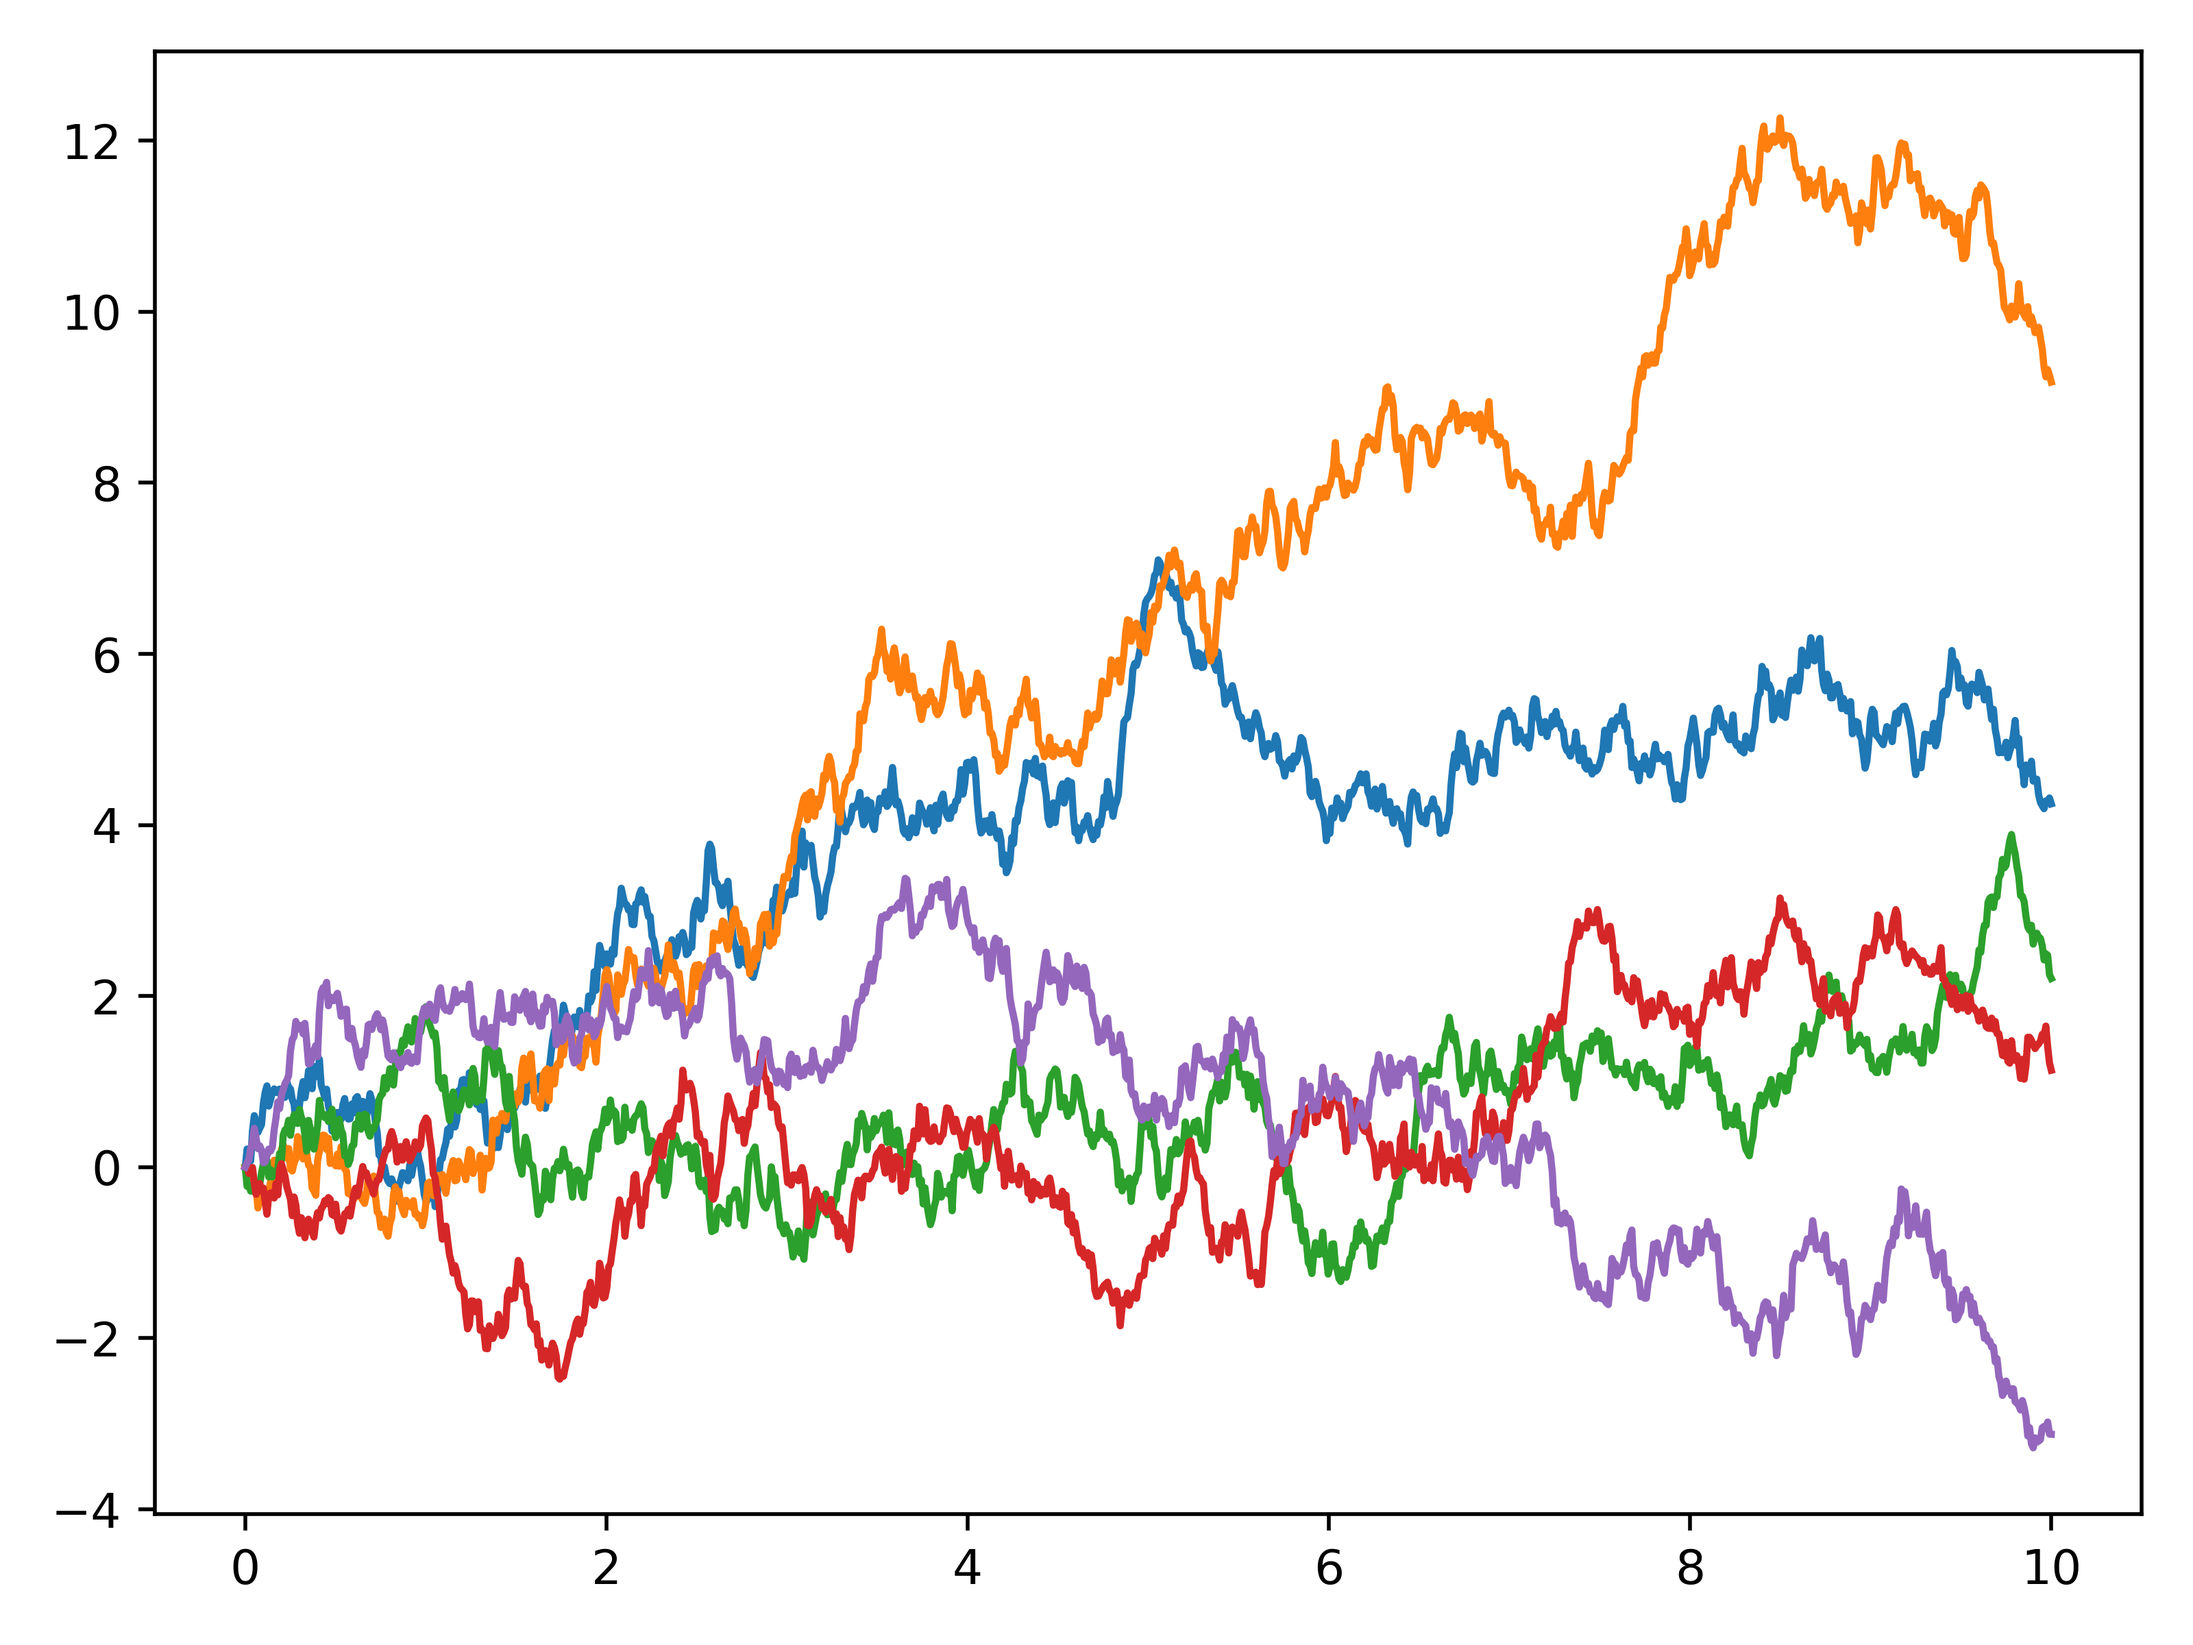
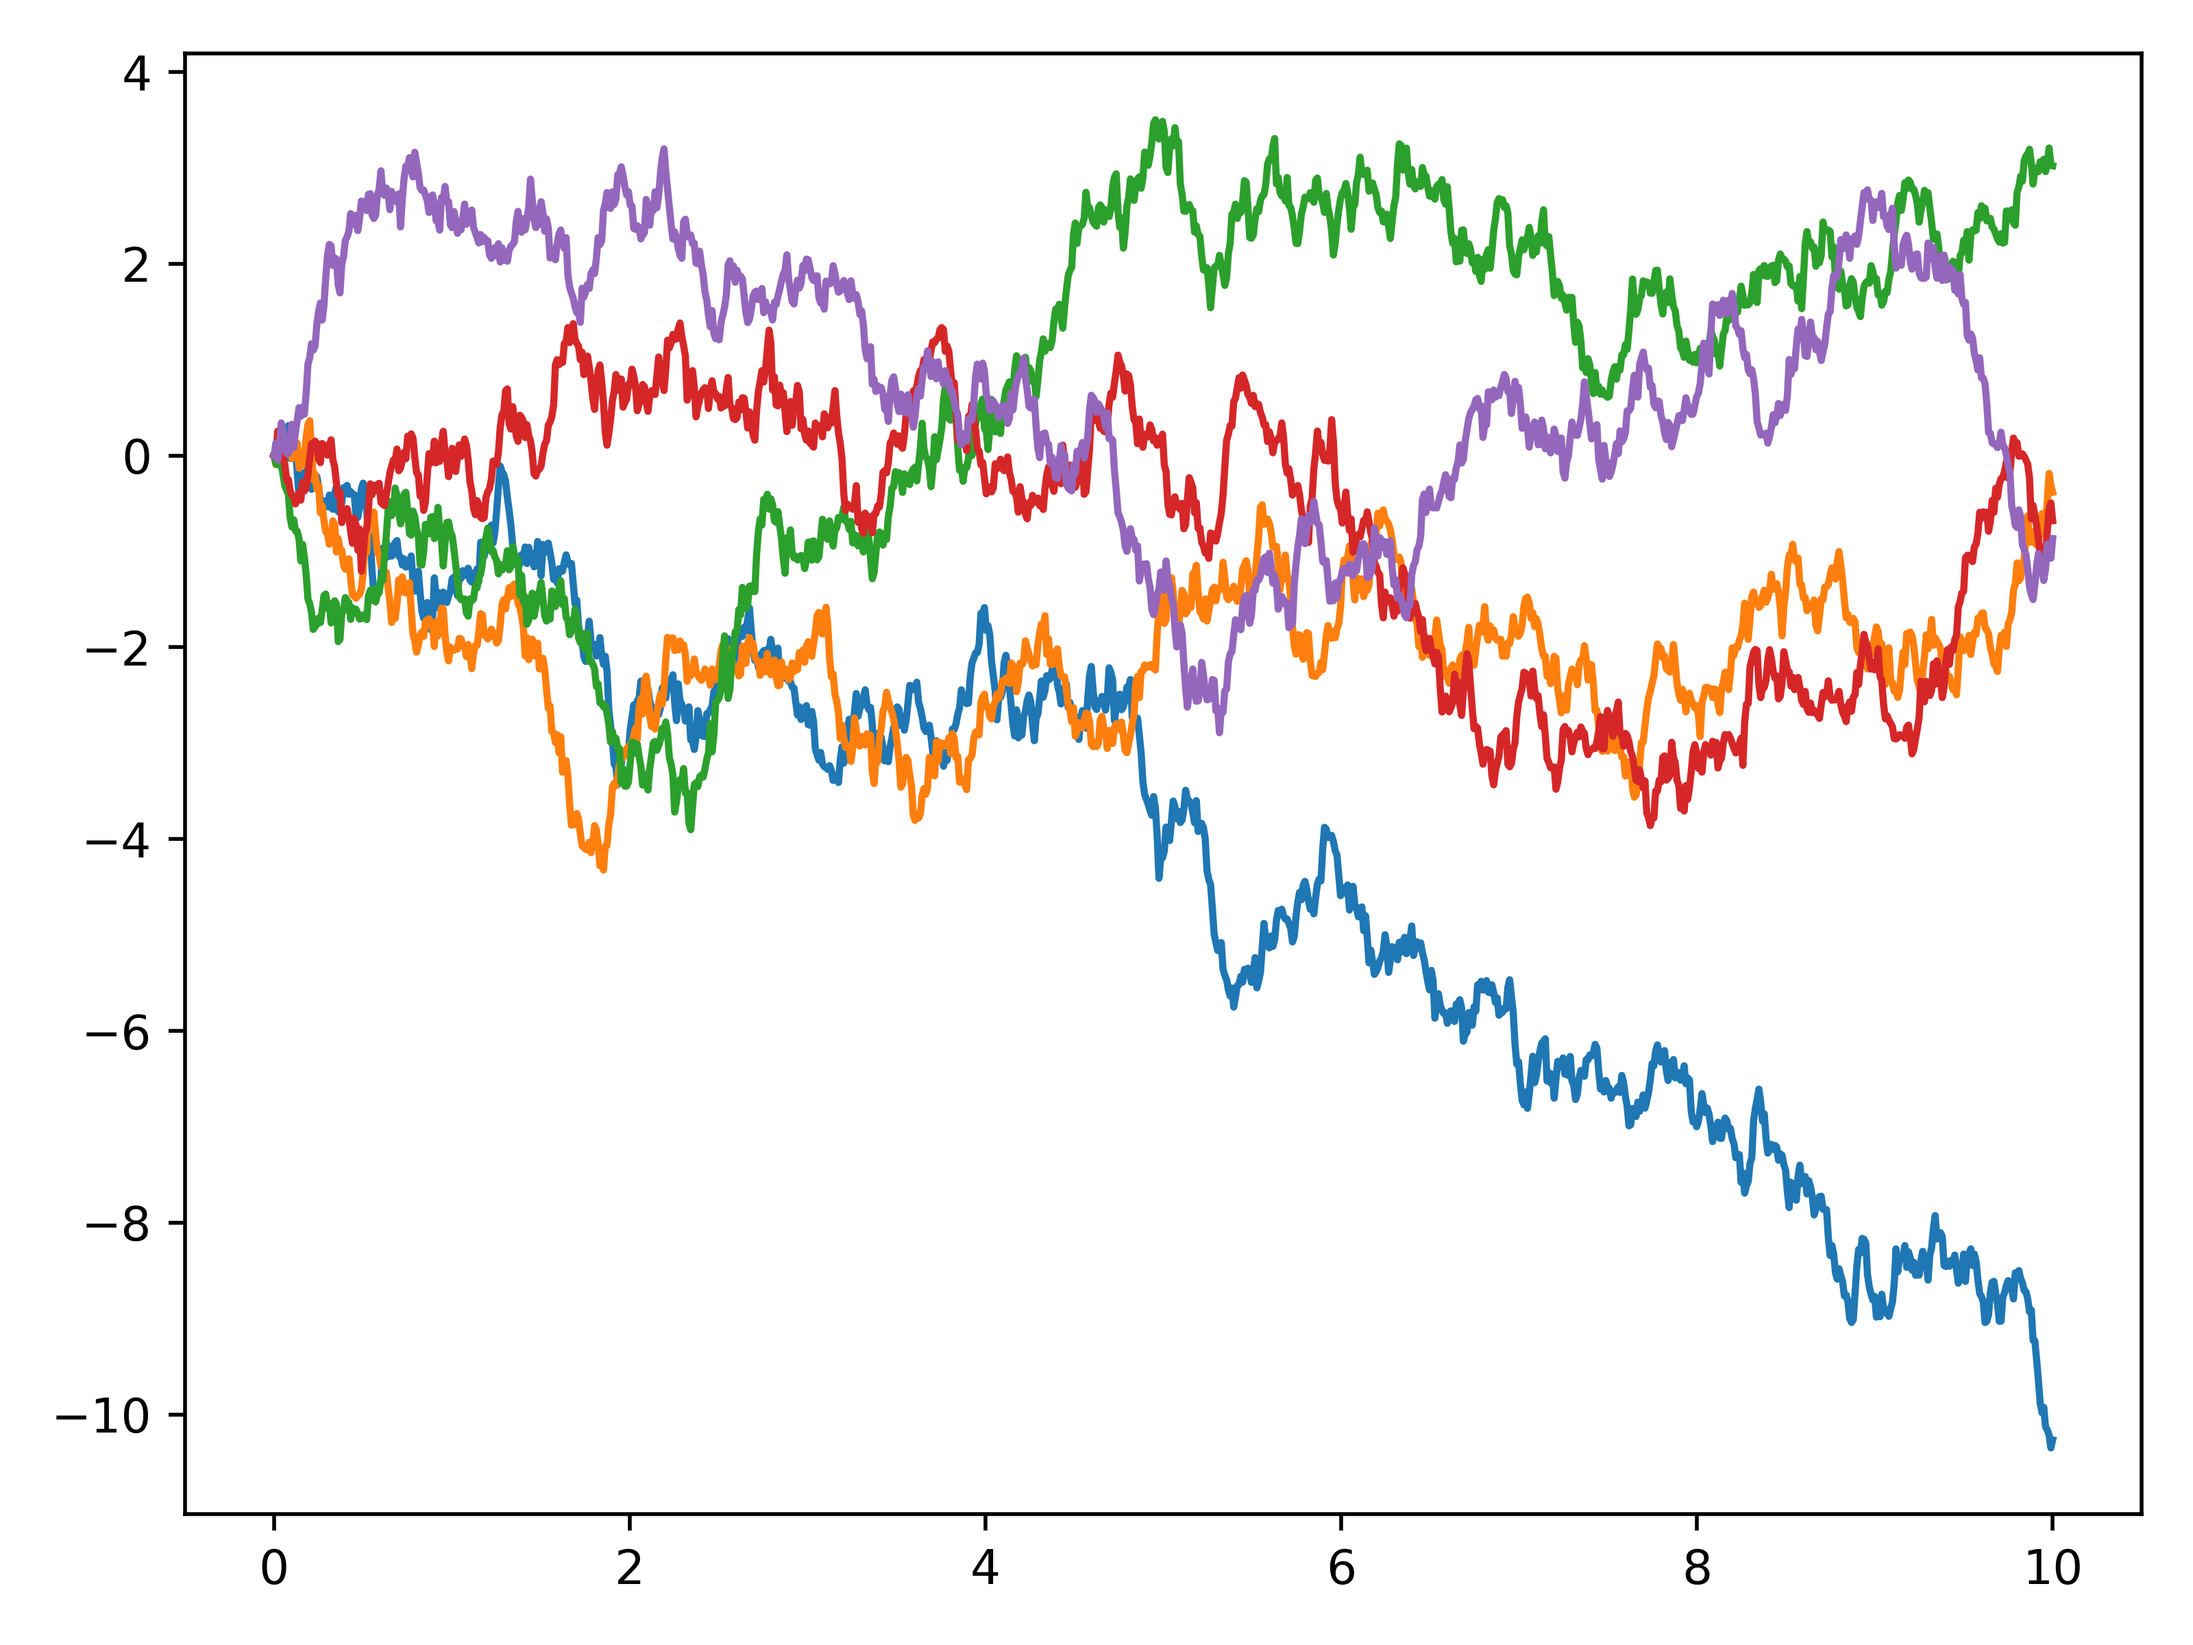
ornstein uhlenbeck process

diff --git a/sheet_4/brownian_motion.py b/sheet_4/brownian_motion.py
@@ -4,7 +4,7 @@ import matplotlib.pyplot as plt
 D = 1
 
 
-def brownian_motion(time, partition):
+def brownian_motion(time, partition, ornstein=False):
     time_fraction = time / partition
     x = 0
     t_vals = np.linspace(0, time, partition)
@@ -12,6 +12,8 @@ def brownian_motion(time, partition):
     for t in t_vals:
         x_vals.append(x)
         x += np.sqrt(2 * D) * np.random.normal(loc=0, scale=np.sqrt(time_fraction), size=None)
+        if ornstein:
+            x -= x * time_fraction
 
     return t_vals, np.array(x_vals)
 
@@ -41,3 +43,10 @@ ax.plot(*mean_squared_displacement(10, 1000, 1000))
 
 fig.tight_layout()
 fig.savefig('mean_squared_displacement.png')
+
+fig, ax = plt.subplots(dpi=500)
+for _ in range(3):
+    ax.plot(*brownian_motion(10, 1000, True))
+
+fig.tight_layout()
+fig.savefig('brownian_motion_ornstein.png')
